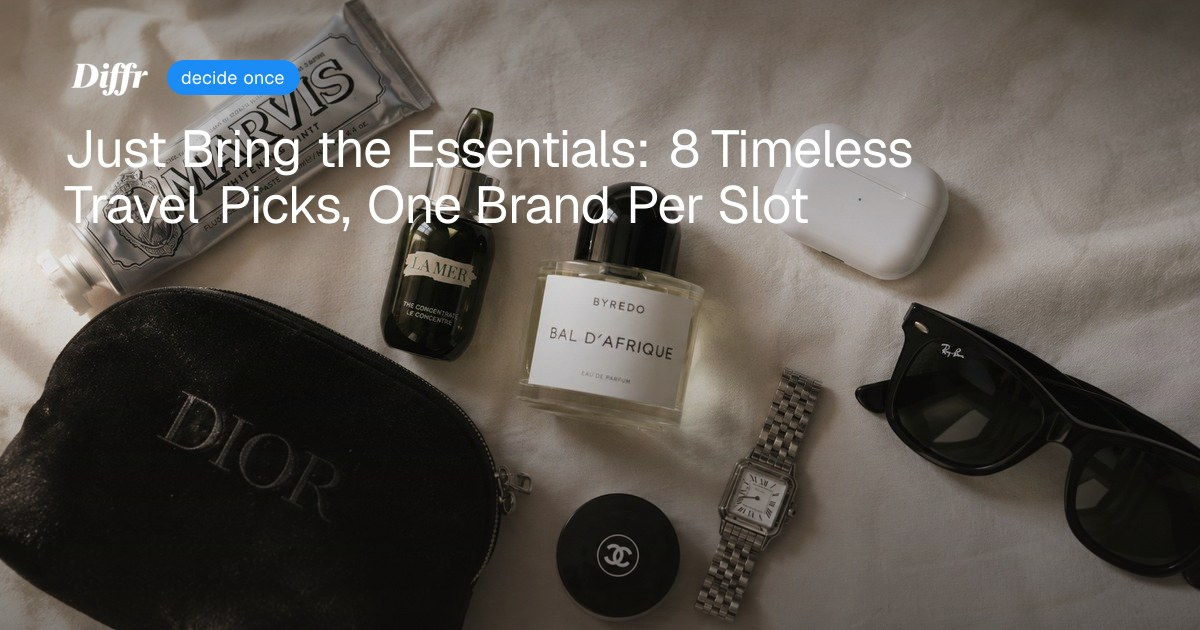
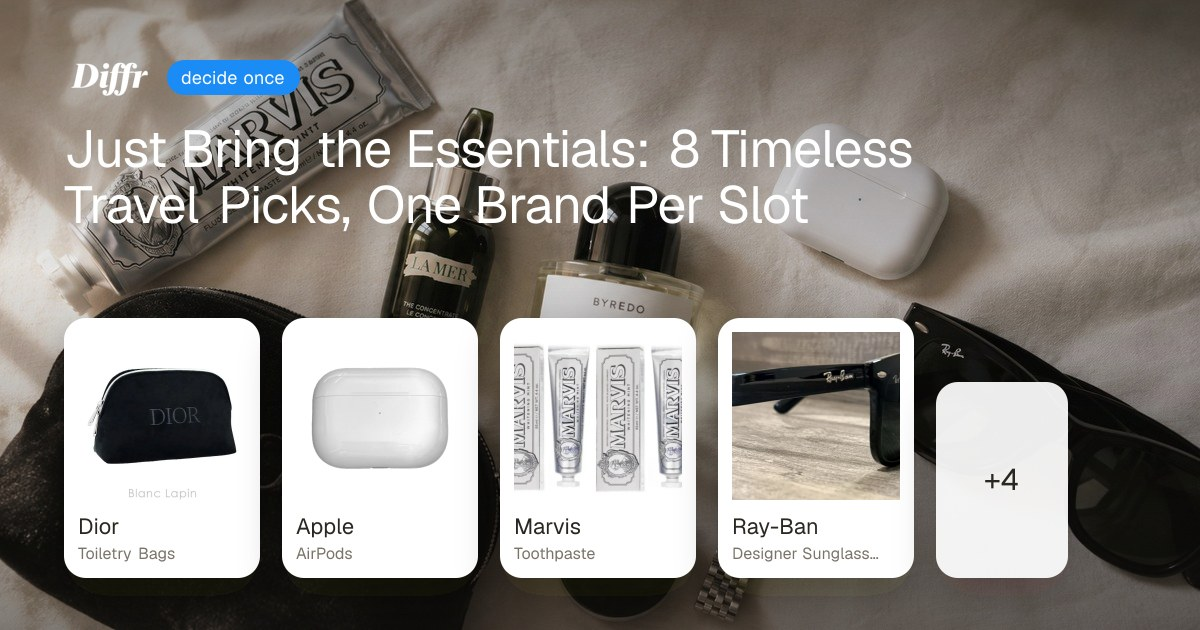
Fix JBT OG slot tiles: pinned PL image_r2_key + no fetch cache.
getSceneBrandKit now reads image_r2_key for pinned product lines, skips
stale Next fetch cache, and avoids v_slot_pool pl_id timeouts when direct
PL rows resolve — rebakes share card with 4 tiles + "+4".

Changed region(s): [[0.0308, 0.4825, 0.8942, 0.9349]]

diff --git a/app/diffr/start/lib.ts b/app/diffr/start/lib.ts
@@ -1,4 +1,5 @@
 // Shared Supabase fetch helpers for /diffr/start pages
+import { unstable_noStore as noStore } from "next/cache";
 
 export interface RequiredCategory {
   category: string;
@@ -225,11 +226,25 @@ const POOL_ORDER =
 const POOL_SELECT =
   "brand_id,product_type_id,brand_name,beginner_score,fit_score,is_curated_pick,image_url,image_status,pl_id";
 
-/** R2 CDN path for product_line.image_uuid (matches fetch_slot_pool / v_slot_pool). */
+/** R2 CDN path — legacy uuid layout (pl/xx/uuid.webp). Prefer image_r2_key when set. */
 function plImageUrl(imageUuid: string | null | undefined): string | null {
   if (!imageUuid) return null;
   const prefix = imageUuid.slice(0, 2);
   return `https://images.truake.com/pl/${prefix}/${imageUuid}.webp`;
+}
+
+/** Match v_slot_pool image_url construction (image_r2_key → Cloudinary fallback). */
+function productLineImageUrl(pl: {
+  image_r2_key?: string | null;
+  image_cloudinary_id?: string | null;
+  image_uuid?: string | null;
+}): string | null {
+  if (pl.image_r2_key) return `https://images.truake.com/${pl.image_r2_key}`;
+  const cid = pl.image_cloudinary_id;
+  if (cid && !cid.startsWith("local:")) {
+    return `https://res.cloudinary.com/dbglvaci5/image/upload/${cid}`;
+  }
+  return plImageUrl(pl.image_uuid);
 }
 
 interface DirectPlRow {
@@ -238,6 +253,8 @@ interface DirectPlRow {
   brand_id: number;
   product_type_id: number | null;
   image_uuid: string | null;
+  image_r2_key: string | null;
+  image_cloudinary_id: string | null;
   brands: { name: string } | null;
 }
 
@@ -249,10 +266,11 @@ async function fetchPinnedFromProductLines(
   if (!plIds.length) return out;
   const rows = await sbGet<DirectPlRow[]>(
     `product_lines?id=in.(${plIds.join(",")})` +
-      `&select=id,product_line,brand_id,product_type_id,image_uuid,brands(name)`
+      `&select=id,product_line,brand_id,product_type_id,image_uuid,image_r2_key,image_cloudinary_id,brands(name)`,
+    { noStore: true }
   ).catch(() => []);
   for (const pl of rows) {
-    const imageUrl = plImageUrl(pl.image_uuid);
+    const imageUrl = productLineImageUrl(pl);
     if (!imageUrl) continue;
     out.set(pl.id, {
       brand_id: pl.brand_id,
@@ -269,16 +287,20 @@ async function fetchPinnedFromProductLines(
   return out;
 }
 
+function slotImageReady(row: PoolRow): boolean {
+  return Boolean(row.image_url) && (row.image_status === "ready" || row.image_status === "crawled");
+}
+
 // Retry once on transient failure so a momentary network blip during SSG does
 // not silently drop a scene's brand kit (the .catch fallback would otherwise
 // produce an empty kit and hide the whole section).
-async function sbGet<T>(path: string): Promise<T> {
+async function sbGet<T>(path: string, opts?: { noStore?: boolean }): Promise<T> {
   let lastErr: unknown;
   for (let attempt = 0; attempt < 2; attempt++) {
     try {
       const res = await fetch(`${SUPABASE_URL}/rest/v1/${path}`, {
         headers,
-        next: { revalidate: 3600 },
+        ...(opts?.noStore ? { cache: "no-store" as const } : { next: { revalidate: 3600 } }),
       });
       if (!res.ok) throw new Error(`Supabase ${path} → ${res.status}`);
       return res.json();
@@ -300,9 +322,11 @@ async function sbGet<T>(path: string): Promise<T> {
 export async function getSceneBrandKit(
   presetId: number
 ): Promise<SceneBrandKit | null> {
+  noStore();
+  const kitGet = <T>(path: string) => sbGet<T>(path, { noStore: true });
   let scenario: PresetScenarioRow | undefined;
   try {
-    const rows = await sbGet<PresetScenarioRow[]>(
+    const rows = await kitGet<PresetScenarioRow[]>(
       `preset_scenarios?id=eq.${presetId}&is_active=eq.true` +
         `&select=id,name,description,slot_count,product_types,slot_brand_ids,slot_product_line_ids`
     );
@@ -325,10 +349,10 @@ export async function getSceneBrandKit(
 
   // Bounded query: resolve each slot's curated pick directly (small, reliable).
   const [pickRows, typeRows] = await Promise.all([
-    sbGet<PoolRow[]>(
+    kitGet<PoolRow[]>(
       `v_slot_pool?brand_id=in.(${uniqBrands.join(",")})&product_type_id=in.(${uniqTypes.join(",")})&select=${POOL_SELECT}`
     ).catch(() => []),
-    sbGet<{ id: number; name: string }[]>(
+    kitGet<{ id: number; name: string }[]>(
       `product_types?id=in.(${uniqTypes.join(",")})&select=id,name`
     ).catch(() => []),
   ]);
@@ -341,23 +365,24 @@ export async function getSceneBrandKit(
   ];
   const pinnedMap = new Map<number, PoolRow>();
   if (explicitPlIds.length) {
-    const pinnedRows = await sbGet<PoolRow[]>(
-      `v_slot_pool?pl_id=in.(${explicitPlIds.join(",")})&select=${POOL_SELECT}`
-    ).catch(() => []);
-    for (const r of pinnedRows) {
-      if (r.pl_id) pinnedMap.set(r.pl_id, r);
-    }
-    const missing = explicitPlIds.filter((id) => !pinnedMap.has(id));
-    if (missing.length) {
-      const direct = await fetchPinnedFromProductLines(missing);
-      for (const [id, row] of direct) pinnedMap.set(id, row);
+    // Direct product_lines read is authoritative for pinned slots; v_slot_pool pl_id=
+    // often times out and can return stale image_status for freshly crawled PLs.
+    const direct = await fetchPinnedFromProductLines(explicitPlIds);
+    for (const [id, row] of direct) pinnedMap.set(id, row);
+    if (direct.size < explicitPlIds.length) {
+      const pinnedRows = await kitGet<PoolRow[]>(
+        `v_slot_pool?pl_id=in.(${explicitPlIds.join(",")})&select=${POOL_SELECT}`
+      ).catch(() => []);
+      for (const r of pinnedRows) {
+        if (r.pl_id && !pinnedMap.has(r.pl_id)) pinnedMap.set(r.pl_id, r);
+      }
     }
   }
 
   // Flagship product-line names for pinned ids (direct path may skip pickRows).
   let pinnedPlNames: { id: number; product_line: string | null }[] = [];
   if (explicitPlIds.length) {
-    pinnedPlNames = await sbGet<{ id: number; product_line: string | null }[]>(
+    pinnedPlNames = await kitGet<{ id: number; product_line: string | null }[]>(
       `product_lines?id=in.(${explicitPlIds.join(",")})&select=id,product_line`
     ).catch(() => []);
   }
@@ -372,7 +397,7 @@ export async function getSceneBrandKit(
   const fallbackMap = new Map<number, PoolRow>();
   await Promise.all(
     orphanTypes.map(async (pt) => {
-      const top = await sbGet<PoolRow[]>(
+      const top = await kitGet<PoolRow[]>(
         `v_slot_pool?product_type_id=eq.${pt}&order=${POOL_ORDER}&limit=1&select=${POOL_SELECT}`
       ).catch(() => []);
       if (top[0]) fallbackMap.set(pt, top[0]);
@@ -383,7 +408,7 @@ export async function getSceneBrandKit(
   const plIds = [...new Set(allRows.map((r) => r.pl_id).filter((x): x is number => !!x))];
   let plMap = new Map<number, string>();
   if (plIds.length) {
-    const plRows = await sbGet<{ id: number; product_line: string | null }[]>(
+    const plRows = await kitGet<{ id: number; product_line: string | null }[]>(
       `product_lines?id=in.(${plIds.join(",")})&select=id,product_line`
     ).catch(() => []);
     plMap = new Map(plRows.map((p) => [p.id, p.product_line ?? ""]));
@@ -403,8 +428,9 @@ export async function getSceneBrandKit(
         pickMap.get(`${brandId}:${pt}`) ??
         fallbackMap.get(pt);
       if (!row) return null;
-      const status = row.image_status ?? "pending";
-      if (status === "ready") readyCount++;
+      const ready = slotImageReady(row);
+      const status = ready ? "ready" : (row.image_status ?? "pending");
+      if (ready) readyCount++;
       const plId = pinnedPlId ?? row.pl_id;
       return {
         index: i,
@@ -416,7 +442,7 @@ export async function getSceneBrandKit(
         fitScore: row.fit_score ?? null,
         isCuratedPick: row.is_curated_pick ?? false,
         productLine: plId ? plMap.get(plId) || null : null,
-        imageUrl: status === "ready" ? row.image_url ?? null : null,
+        imageUrl: ready ? row.image_url ?? null : null,
         logoUrl: null, // filled by the brand-logo batch fetch below
         status,
       };
@@ -429,7 +455,7 @@ export async function getSceneBrandKit(
   try {
     const bids = [...new Set(slots.map((s) => s.brandId))].filter(Boolean);
     if (bids.length) {
-      const logos = await sbGet<
+      const logos = await kitGet<
         { id: number; supabase_logo_url: string | null; logo_status: string | null }[]
       >(`brands?id=in.(${bids.join(",")})&select=id,supabase_logo_url,logo_status`);
       const badStatus = new Set(["blank_image", "corrupt_image"]);
